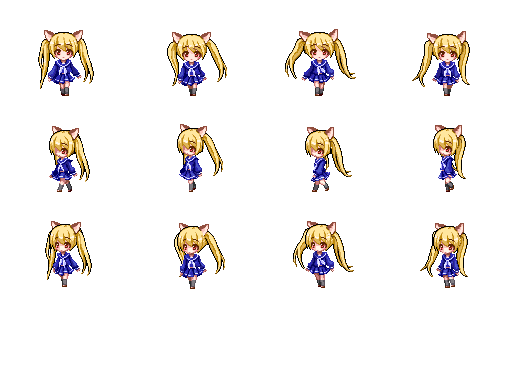
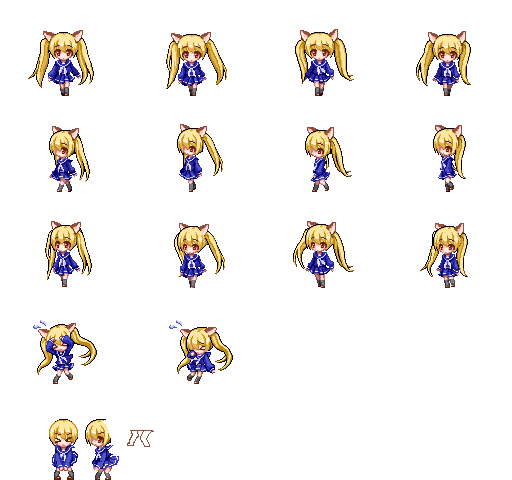
アニメーション書き直し中

diff --git a/ShizimilyRogue/scripts/gameScene.ts b/ShizimilyRogue/scripts/gameScene.ts
@@ -759,34 +759,47 @@ module ShizimilyRogue.View {
          */
         static getInstance(object: Common.IObject): ViewObject {
             if (object.isPlayer())
-                return ViewObjectFactory.getPlayerInstance(object);
+                return ViewObjectFactory.getPlayerInstance(<Common.IUnit>object);
             else if (object.isUnit())
-                return ViewObjectFactory.getUnitInstance(object);
+                return ViewObjectFactory.getUnitInstance(<Common.IUnit>object);
             else if (object.isItem())
-                return ViewObjectFactory.getItemInstance(object);
+                return ViewObjectFactory.getItemInstance(<Common.IItem>object);
         }
 
-        private static getPlayerInstance(obj: Common.IObject): ViewObject {
+        private static getPlayerInstance(obj: Common.IUnit): ViewObject {
             var lastDir = obj.dir;
+            var lastState = obj.state;
             var frameLock = false;
-            var frame = (sprite: enchant.Sprite) => {
-                if (lastDir != obj.dir && !frameLock) {
-                    var x: number[][] = [
-                        [0],
-                        [0],
-                        [0],
-                        [0],
-                        [0, 0, 0, 0, 0, 0, 0, 1, 1, 1, 1, 1, 1, 1, 2, 2, 2, 2, 2, 2, 2, 3, 3, 3, 3, 3, 3, 3],
-                        [8, 8, 8, 8, 8, 8, 8, 9, 9, 9, 9, 9, 9, 9, 9, 10, 10, 10, 10, 10, 10, 10, 11, 11, 11, 11, 11, 11, 11],
-                        [4, 4, 4, 4, 4, 4, 4, 5, 5, 5, 5, 5, 5, 5, 6, 6, 6, 6, 6, 6, 6, 7, 7, 7, 7, 7, 7, 7],
-                        [0]
-                    ];
-                    sprite.frame = x[obj.dir];
-                    lastDir = obj.dir;
+            var idleAnimation = (sprite: enchant.Sprite) => {
+                if ((lastDir != obj.dir || lastState != obj.state) && !frameLock) {
+                    if (obj.state == Common.DungeonUnitState.Normal) {
+                        var delay: number = 7;  /* 1枚の画像を表示し続ける時間(s) / 30(FPS) */
+                        var x: number[][] = [
+                            [0, 0, 0, 0, 0, 0, 0, 1, 1, 1, 1, 1, 1, 1, 2, 2, 2, 2, 2, 2, 2, 3, 3, 3, 3, 3, 3, 3],
+                            [0, 0, 0, 0, 0, 0, 0, 1, 1, 1, 1, 1, 1, 1, 2, 2, 2, 2, 2, 2, 2, 3, 3, 3, 3, 3, 3, 3],
+                            [0, 0, 0, 0, 0, 0, 0, 1, 1, 1, 1, 1, 1, 1, 2, 2, 2, 2, 2, 2, 2, 3, 3, 3, 3, 3, 3, 3],
+                            [0, 0, 0, 0, 0, 0, 0, 1, 1, 1, 1, 1, 1, 1, 2, 2, 2, 2, 2, 2, 2, 3, 3, 3, 3, 3, 3, 3],
+                            [0, 0, 0, 0, 0, 0, 0, 1, 1, 1, 1, 1, 1, 1, 2, 2, 2, 2, 2, 2, 2, 3, 3, 3, 3, 3, 3, 3],
+                            [8, 8, 8, 8, 8, 8, 8, 9, 9, 9, 9, 9, 9, 9, 9, 10, 10, 10, 10, 10, 10, 10, 11, 11, 11, 11, 11, 11, 11],
+                            [4, 4, 4, 4, 4, 4, 4, 5, 5, 5, 5, 5, 5, 5, 6, 6, 6, 6, 6, 6, 6, 7, 7, 7, 7, 7, 7, 7],
+                            [0, 0, 0, 0, 0, 0, 0, 1, 1, 1, 1, 1, 1, 1, 2, 2, 2, 2, 2, 2, 2, 3, 3, 3, 3, 3, 3, 3]
+                        ];
+                        /*var allFrame: number[][];
+                        for (var dir = 0; dir < 8; dir++) {
+                            for (var flameNum = 0; flameNum < x[dir].length; flameNum++) {
+                                for (var i = 0; i < delay; i++) {
+                                    allFrame[dir].push(x[dir][flameNum]);
+                                }
+                            }
+                        }*/
+                        
+                        sprite.frame = x[obj.dir];
+                        lastDir = obj.dir;
+                    }
                 }
             };
 
-            var updateAction = (sprite: enchant.Sprite, action: Common.Action, speed: number) => {
+            var actionAnimation = (sprite: enchant.Sprite, action: Common.Action, speed: number) => {
                 if (action.isAttack()) {
                     frameLock = true;
                     Scene.addAnimating();
@@ -796,9 +809,20 @@ module ShizimilyRogue.View {
                             Scene.decAnimating();
                             frameLock = false;
                         });
+                } else if (action.isStatus() && action.subType == Common.StatusActionType.Damage) {
+                    frameLock = true;
+                    Scene.addAnimating();
+                    var x: number[] = [12, 13, null];
+                    sprite.frame = x;
+                    sprite.tl
+                        .moveBy(20, 0, 3).moveBy(-20, 0, 3)
+                        .then(() => {
+                            Scene.decAnimating();
+                            frameLock = false;
+                        });
                 }
             };
-            return new ViewObject(obj, Scene.IMAGE.SHIZIMILY.DATA, frame, updateAction, -0.5, -1, 128, 96);
+            return new ViewObject(obj, Scene.IMAGE.SHIZIMILY.DATA, idleAnimation, actionAnimation, -0.5, -1, 128, 96);
         }
 
         private static getUnitInstance(obj: Common.IObject): ViewObject {
